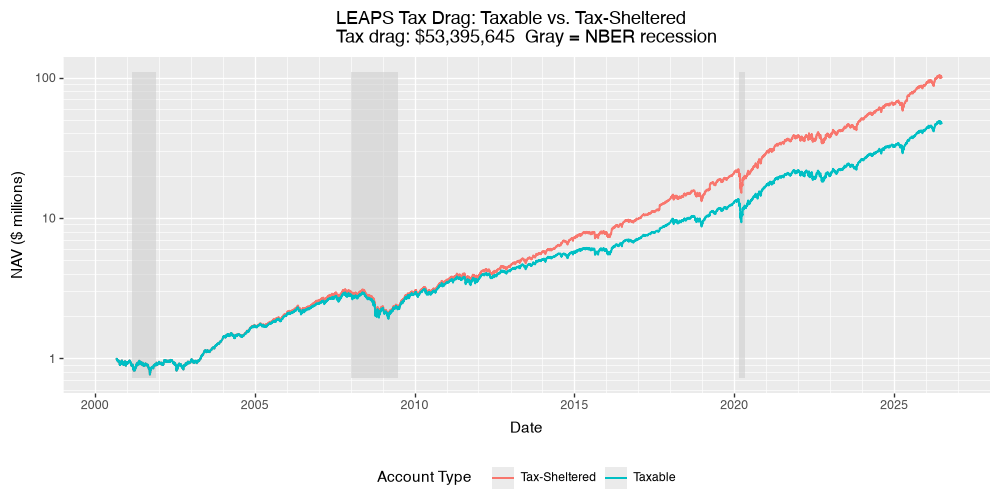
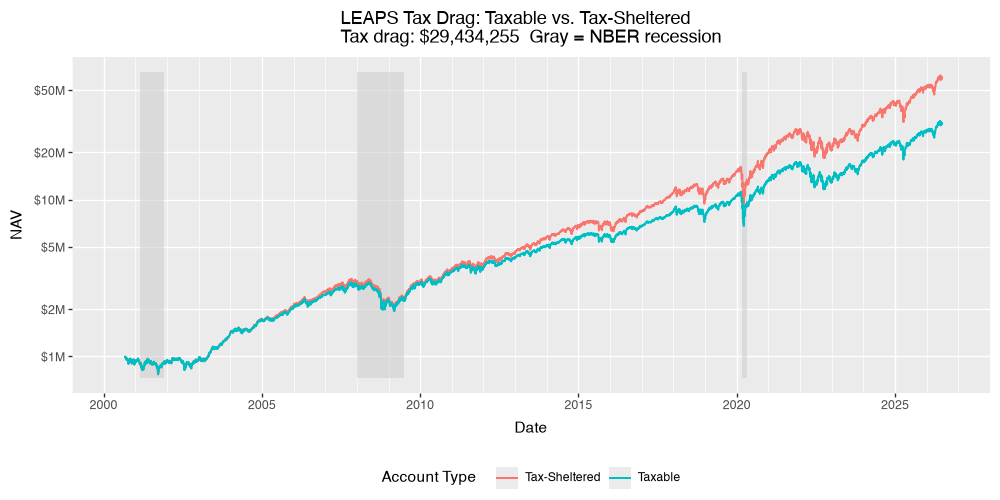
improve figures

diff --git a/src/finance/figures.py b/src/finance/figures.py
@@ -8,6 +8,7 @@ pass ``output_path=None`` to suppress saving.
 from __future__ import annotations
 
 import io
+import math
 import os
 from pathlib import Path
 
@@ -89,6 +90,53 @@ def _gtt_defensive_rects(position_mask: pd.Series, y_lo: float, y_hi: float) -> 
     })
 
 
+def _nav_log_breaks(y_lo: float, y_hi: float) -> list[float]:
+    """Generate round-number ($M) tick positions spanning [y_lo, y_hi] on a log scale.
+
+    Uses a 1-2-5-per-decade sequence (e.g. 1, 2, 5, 10, 20, 50) so ticks land on
+    clean dollar amounts anchored to the actual NAV range, instead of plotnine's
+    default log-scale ticks which rarely align with the data.
+
+    Arguments:
+        y_lo: Lower bound of the NAV range, in millions.
+        y_hi: Upper bound of the NAV range, in millions.
+
+    Returns:
+        Sorted list of tick positions (in millions) covering the range.
+    """
+    if y_lo <= 0.0 or y_hi <= y_lo:
+        return [y_hi]
+    lo_exp = math.floor(math.log10(y_lo))
+    hi_exp = math.ceil(math.log10(y_hi))
+    candidates = sorted(m * 10.0**e for e in range(lo_exp, hi_exp + 1) for m in (1, 2, 5))
+    breaks = [b for b in candidates if y_lo * 0.9 <= b <= y_hi * 1.1]
+    return breaks if breaks else [y_lo, y_hi]
+
+
+def _format_nav_millions(breaks: list[float]) -> list[str]:
+    """Format $-millions tick positions as human-readable dollar labels.
+
+    Arguments:
+        breaks: Tick positions in millions of dollars.
+
+    Returns:
+        Labels like "$500K", "$1M", "$2.5M" matching each break.
+    """
+    labels = []
+    for b in breaks:
+        if b < 1.0:
+            labels.append(f"${b * 1000:,.0f}K")
+        elif b >= 1000.0:
+            billions = b / 1000.0
+            fmt = f"${int(billions):,}B" if billions == int(billions) else f"${billions:,.1f}B"
+            labels.append(fmt)
+        elif b == int(b):
+            labels.append(f"${int(b):,}M")
+        else:
+            labels.append(f"${b:,.1f}M")
+    return labels
+
+
 def _compute_drawdown_series(nav: pd.Series) -> pd.Series:
     """Return the drawdown series for *nav* (negative fractions).
 
@@ -164,17 +212,20 @@ def plot_nav_growth(
     if position_mask is not None:
         subtitle += "  |  Yellow = GTT defensive"
 
+    y_breaks = _nav_log_breaks(y_lo, y_hi)
+    y_labels = _format_nav_millions(y_breaks)
+
     plot = (
         base
         + p9.geom_line(
             data=data, mapping=p9.aes(x="date", y="nav_millions", color="portfolio"), size=0.8
         )
         + p9.scale_x_datetime(date_labels="%Y", date_minor_breaks="1 year")
-        + p9.scale_y_log10()
+        + p9.scale_y_log10(breaks=y_breaks, labels=y_labels, minor_breaks=[])
         + p9.labs(
             title=f"Portfolio NAV Growth\n{subtitle}",
             x="Date",
-            y="NAV ($ millions)",
+            y="NAV",
             color="Portfolio",
         )
         + p9.theme_grey()
@@ -384,17 +435,20 @@ def plot_leaps_tax_drag(
         subtitle_parts.append("Yellow = GTT defensive")
     subtitle = "  |  ".join(subtitle_parts)
 
+    y_breaks = _nav_log_breaks(y_lo, y_hi)
+    y_labels = _format_nav_millions(y_breaks)
+
     plot = (
         base
         + p9.geom_line(
             data=data, mapping=p9.aes(x="date", y="nav_millions", color="account"), size=0.8
         )
         + p9.scale_x_datetime(date_labels="%Y", date_minor_breaks="1 year")
-        + p9.scale_y_log10()
+        + p9.scale_y_log10(breaks=y_breaks, labels=y_labels, minor_breaks=[])
         + p9.labs(
             title=f"LEAPS Tax Drag: Taxable vs. Tax-Sheltered\n{drag_label}  {subtitle}",
             x="Date",
-            y="NAV ($ millions)",
+            y="NAV",
             color="Account Type",
         )
         + p9.theme_grey()
@@ -456,6 +510,9 @@ def format_performance_table(report: PerformanceReport) -> str:
         "-" * 100,
         f"  Forward Vol Forecast : {report.forward_vol_forecast:.4f}",
     ]
+
+    if report.final_nav is not None:
+        lines.append(f"  Terminal NAV         : ${report.final_nav:>15,.2f}")
 
     if report.terminal_nav is not None:
         tn = report.terminal_nav
@@ -522,6 +579,8 @@ def compare_performance_table(reports: list[tuple[str, PerformanceReport]]) -> s
         lines.append(
             f"  [{label}] Forward Vol Forecast : {report.forward_vol_forecast:.4f}"
         )
+        if report.final_nav is not None:
+            lines.append(f"  [{label}] Terminal NAV : ${report.final_nav:>15,.2f}")
         if report.terminal_nav is not None:
             tn = report.terminal_nav
             ts = report.tax_summary

diff --git a/src/finance/metrics.py b/src/finance/metrics.py
@@ -66,6 +66,8 @@ class PerformanceReport:
         vol_contribution_table: DataFrame with columns
             [sigma_tilde, sigma_hat, rho_VTI, contrib], indexed by asset.
         forward_vol_forecast: Annualized one-step-ahead portfolio vol sigma_hat_p.
+        final_nav: Portfolio NAV at the last backtest date (None for
+            sub-period slices, e.g. crisis windows, that have no terminal state).
         terminal_nav: Pre/post-tax terminal NAV (None when no LEAPS overlay).
         tax_summary: LEAPS tax drag summary (None when no LEAPS overlay).
     """
@@ -74,6 +76,7 @@ class PerformanceReport:
     crisis_periods: tuple[PerformanceMetrics, ...]
     vol_contribution_table: pd.DataFrame
     forward_vol_forecast: float
+    final_nav: float | None = None
     terminal_nav: TerminalNav | None = None
     tax_summary: LeapsTaxSummary | None = None
 
@@ -339,8 +342,8 @@ def build_performance_report(
 
     Returns:
         PerformanceReport with full_period, crisis_periods, vol table,
-        forward_vol_forecast, and terminal_nav / tax_summary populated when
-        a LEAPS ledger is present (None otherwise).
+        forward_vol_forecast, and final_nav always populated; terminal_nav /
+        tax_summary populated only when a LEAPS ledger is present (None otherwise).
     """
     port_returns = backtest_result.return_series
     nav = backtest_result.nav_series
@@ -387,6 +390,7 @@ def build_performance_report(
         crisis_periods=tuple(crisis_metrics),
         vol_contribution_table=vol_table,
         forward_vol_forecast=fwd_vol,
+        final_nav=float(nav.iloc[-1]),
         terminal_nav=t_nav,
         tax_summary=t_summary,
     )
